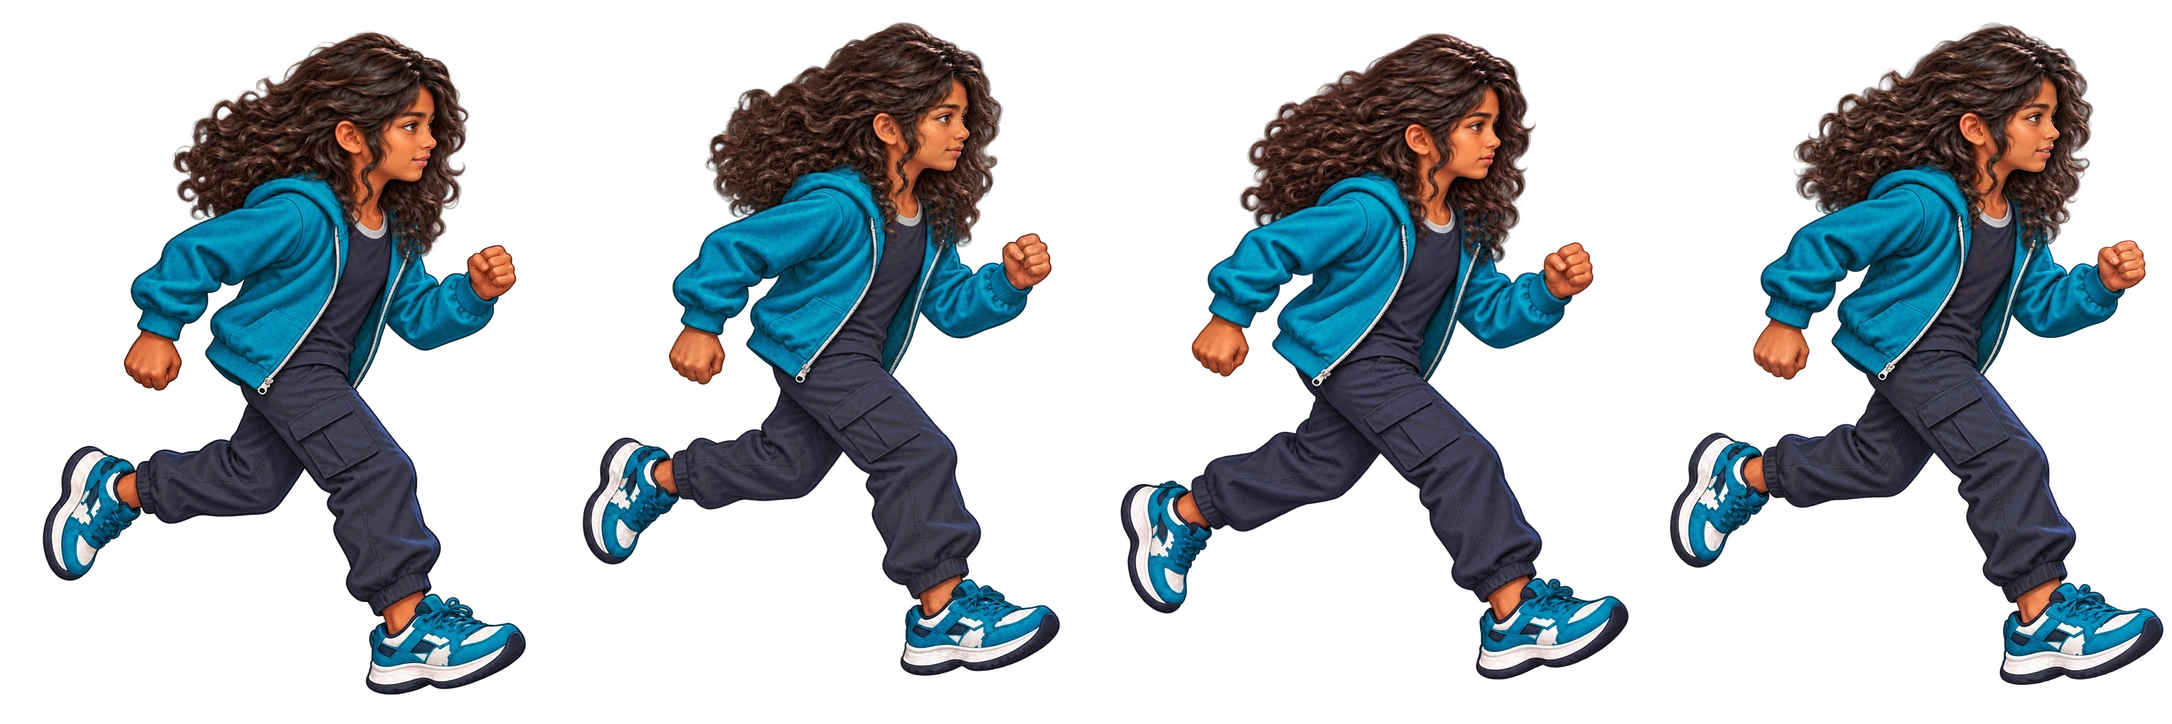
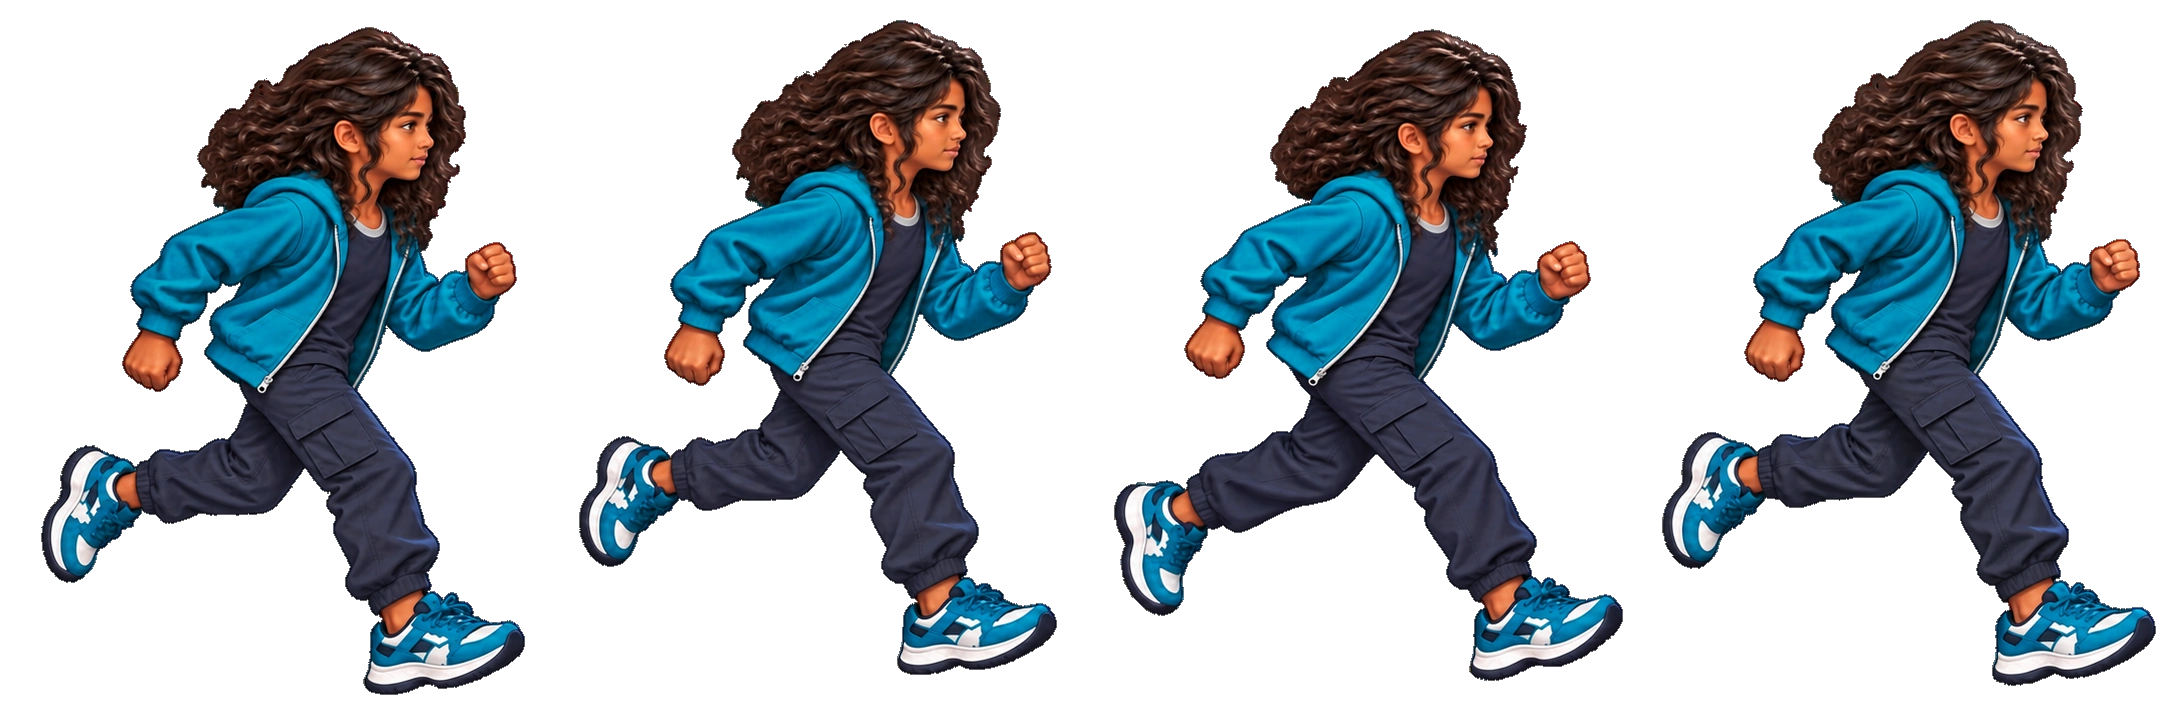
Update E human sprites

diff --git a/game.js b/game.js
@@ -28,7 +28,7 @@ const PEOPLE = {
   E: {
     age: "Preteen",
     accent: "#20c9c3",
-    art: { human: "assets/forms/e-human-realistic-eyes-20261010.webp", selectionHuman: "assets/forms/e-human-realistic-eyes-20261010.webp", run: "assets/forms/e-human-run-realistic-eyes-20261010.webp", flight: "assets/forms/e-snowy-owl.svg", flightRun: "assets/forms/e-snowy-owl-run.svg", groundRun: "assets/forms/e-snowy-owl-walk.svg", horned: "assets/forms/e-flight.webp", hornedRun: "assets/forms/e-flight-run-20261010.webp", chaos: "assets/forms/e-chaos.webp", chaosRun: "assets/forms/e-chaos-run-20261010.webp" },
+    art: { human: "assets/forms/e-human-realistic-eyes-20261010.webp?v=case-20261011-e1", selectionHuman: "assets/forms/e-human-realistic-eyes-20261010.webp?v=case-20261011-e1", run: "assets/forms/e-human-run-realistic-eyes-20261010.webp?v=case-20261011-e1", flight: "assets/forms/e-snowy-owl.svg", flightRun: "assets/forms/e-snowy-owl-run.svg", groundRun: "assets/forms/e-snowy-owl-walk.svg", horned: "assets/forms/e-flight.webp", hornedRun: "assets/forms/e-flight-run-20261010.webp", chaos: "assets/forms/e-chaos.webp", chaosRun: "assets/forms/e-chaos-run-20261010.webp" },
     human: { animal: "Human", ability: "Quick thinking", description: "A small person with an alarmingly large speed boost." },
     flight: { animal: "Snowy owl", ability: "Night sight", description: "Glide silently, spot hidden things, and vanish into the snow." },
     chaos: { animal: "Cheetah", ability: "Fast as heck", description: "Turn a tiny opening into a full-speed blur." }

diff --git a/index.html b/index.html
@@ -84,7 +84,7 @@
     </section>
   </main>
 
-  <script src="game.js?v=case-20261010-43"></script>
+  <script src="game.js?v=case-20261011-44"></script>
 </body>
 </html>
 
